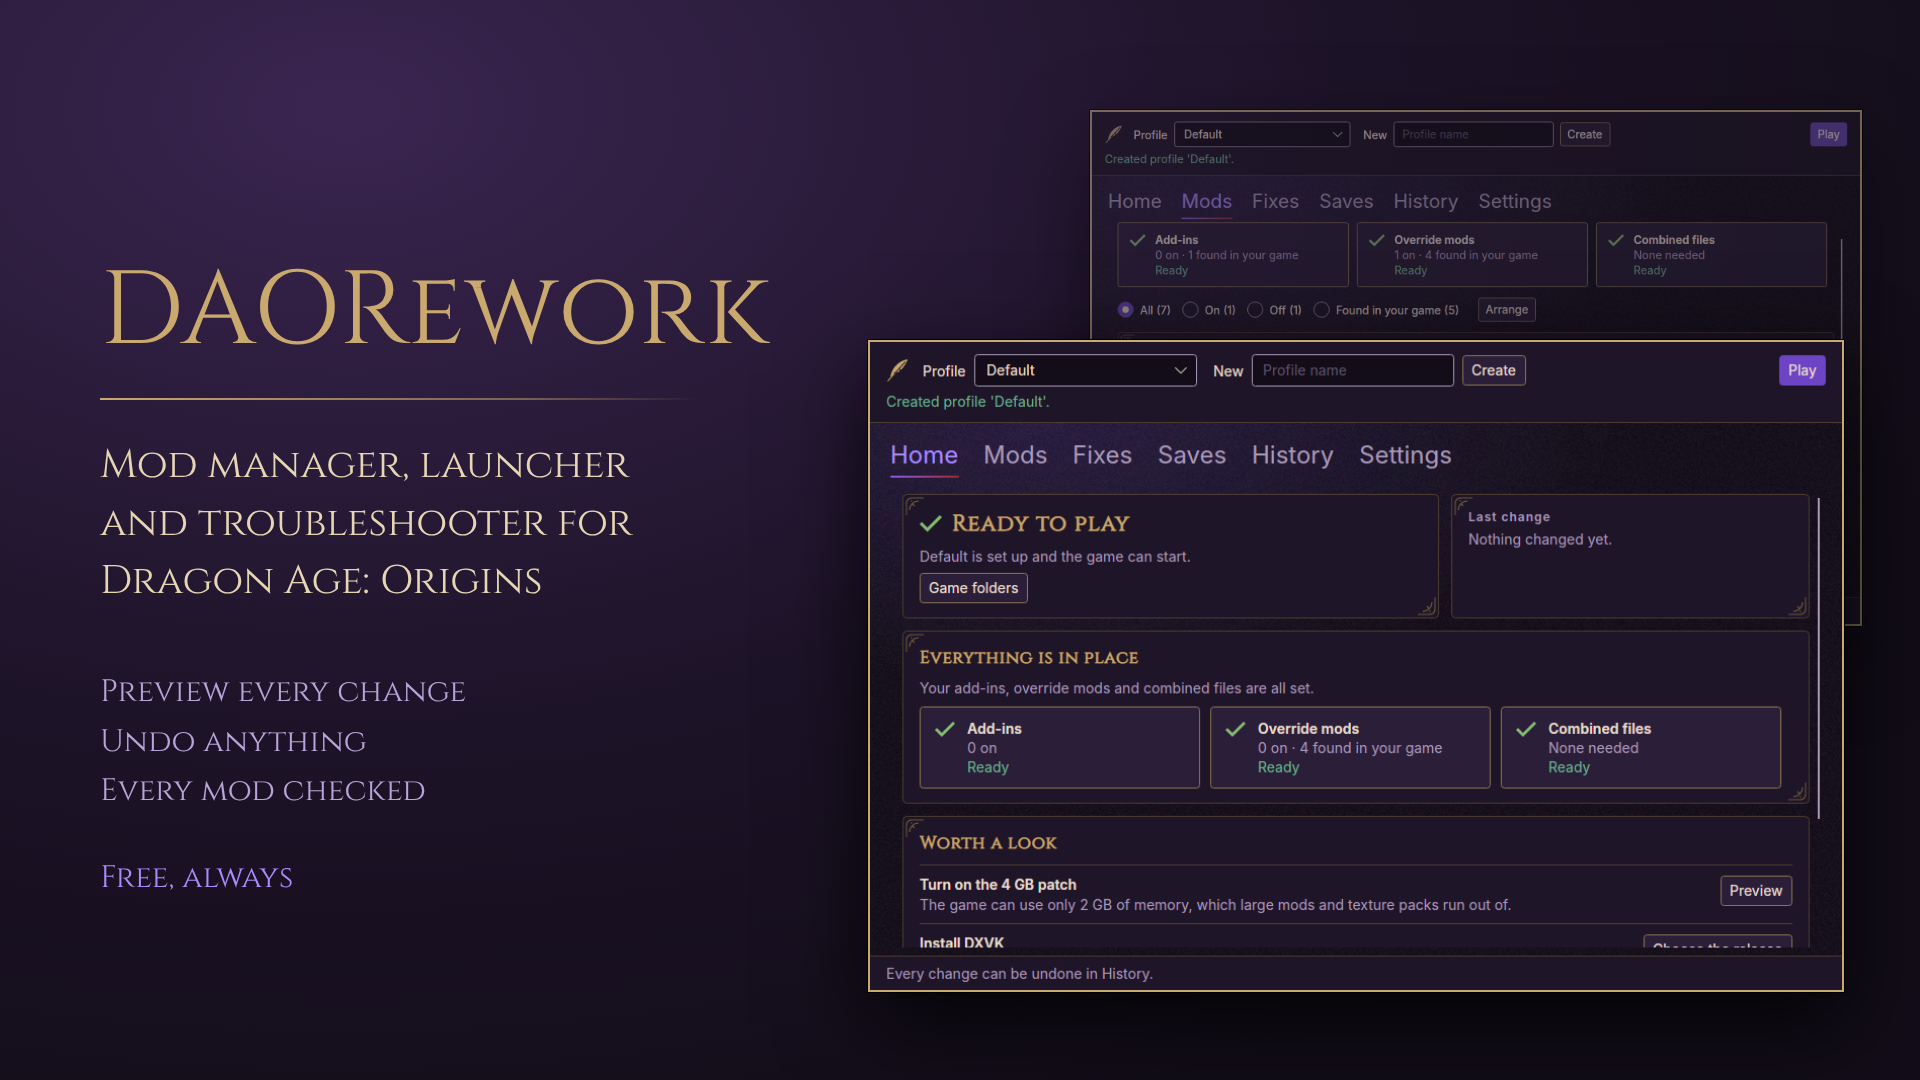
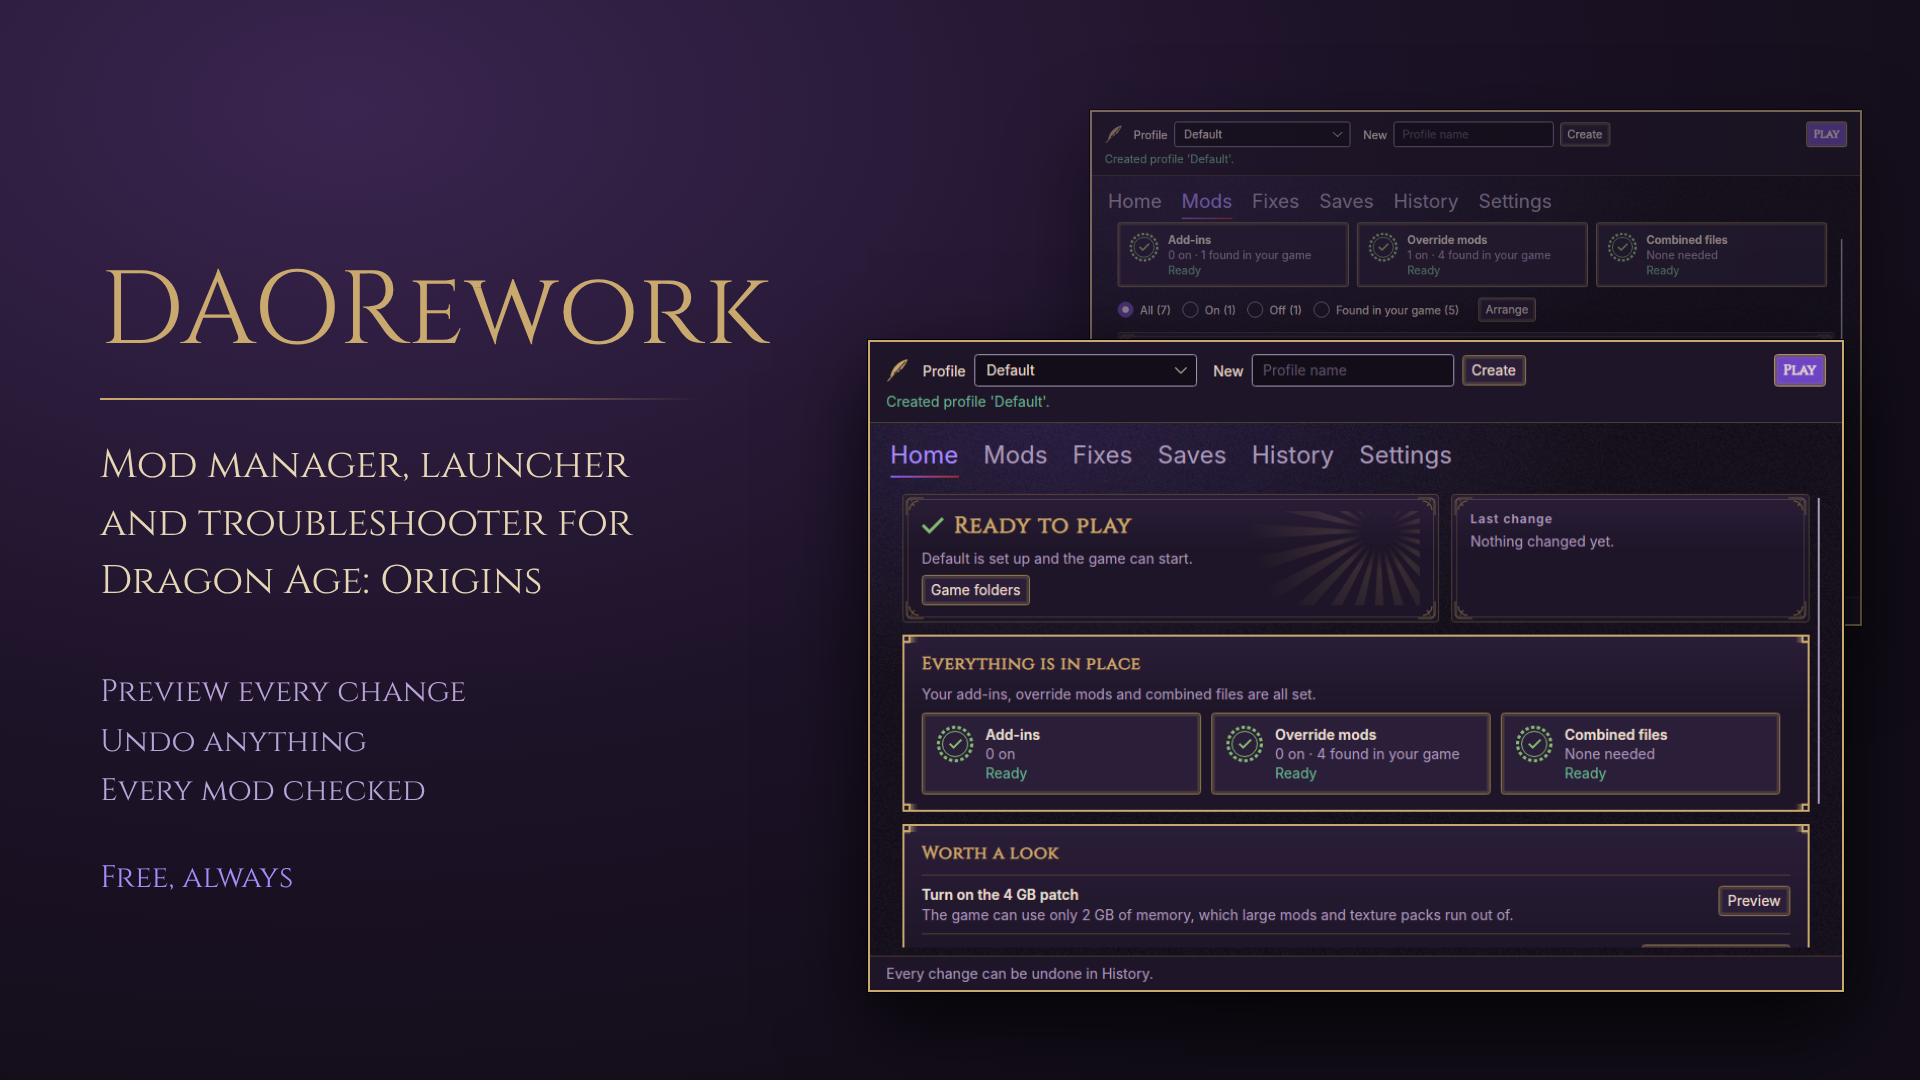
docs(nexus): retake the pictures in the gilded-tome style
The eight screenshots are rendered again from the App tests at the head
of the P2.5-28 pull request (gold frames, seals, switches), and the
cover is rebuilt from cover.html with the new Home and Mods shots. The
paste guide says the pictures show that style.

Claude-Session: https://claude.ai/code/session_016aYuXRDiypNLwwgi5SqThf

diff --git a/docs/release/nexus/README.md b/docs/release/nexus/README.md
@@ -1,7 +1,7 @@
 # Nexus Mods page, ready to paste
 
 This page describes the six-tab window ([ADR-0026](../../adr/0026-workflow-first-layout.md): Home, Mods, Fixes, Saves,
-History, Settings) and its plain words (*Turn on*, *Manage*, *Undo*). **Paste it when the first release with that
+History, Settings) in the gilded-tome style, with its plain words (*Turn on*, *Manage*, *Undo*). **Paste it when the first release with that
 window is on Nexus**; until then the live page keeps describing 0.3.2. Its pictures are in their own folder, so
 merging this changes nothing on the live page.
 
@@ -32,8 +32,8 @@ Where the pictures come from:
   where the Windows scan is not available.
 - `00-cover.png` is [cover.html](cover.html) at 1920x1080, built from `01-home.png` and `02-mods.png`.
 
-When P2.5-28 (the gilded-tome style) lands, the window changes look again: retake `01` to `08` from the same tests and
-the cover from `cover.html`.
+They show the gilded-tome style (P2.5-28), taken from its pull request. If the window's look changes again, retake
+`01` to `08` from the same tests and the cover from `cover.html`.
 
 ## On upload day
 
